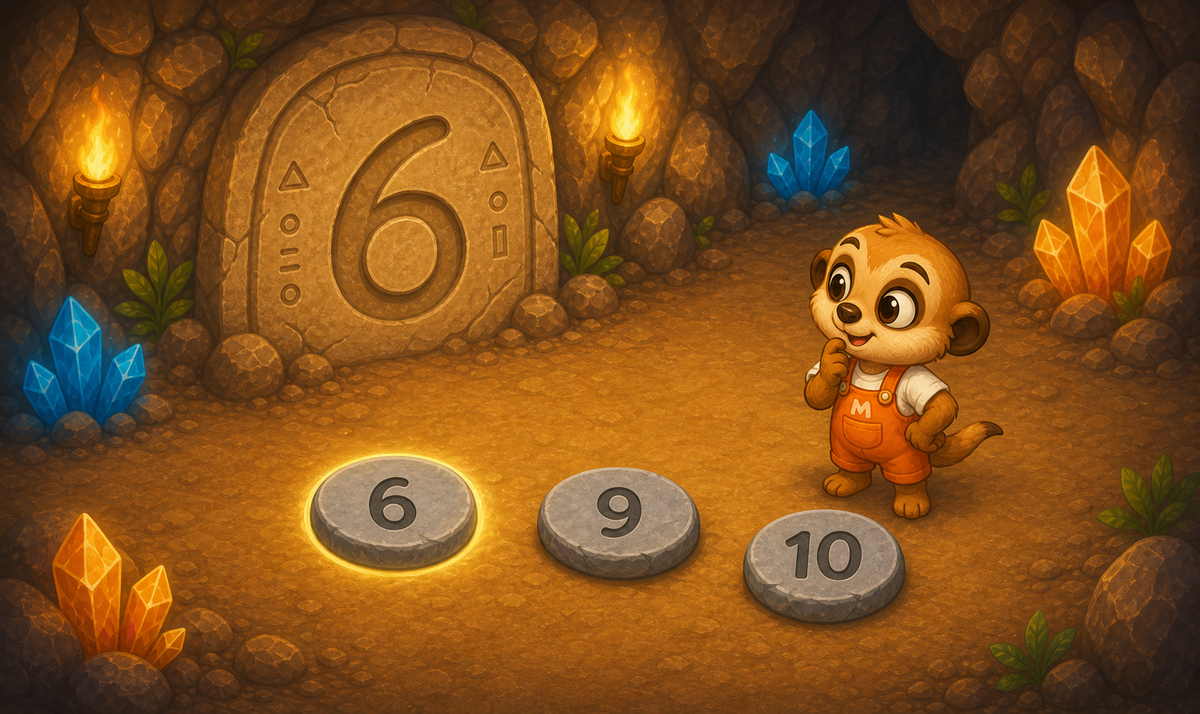
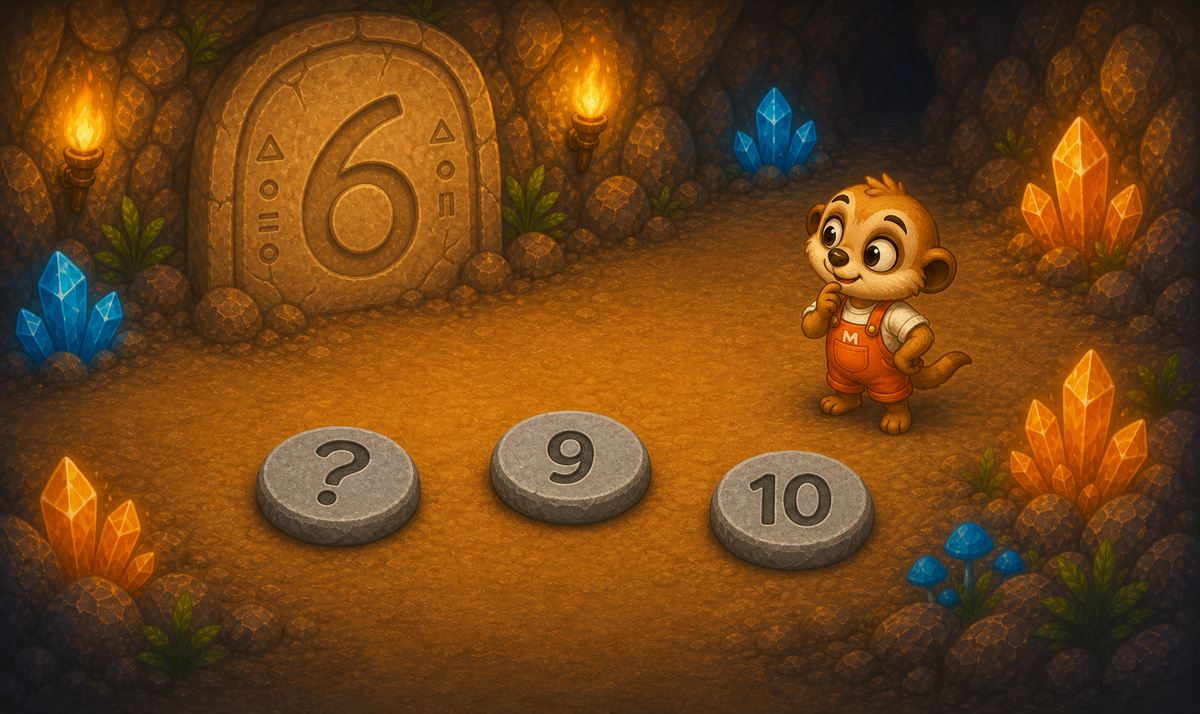
Hide math scene answer hints

diff --git a/src/content/questProblemScenes.ts b/src/content/questProblemScenes.ts
@@ -89,9 +89,9 @@ export const questProblemScenes: Record<string, QuestProblemScene> = {
     item('more', 'count', '새 보석 2개', { count: 2 }),
     item('total', 'count', '모두 8개', { count: 8, role: 'answer' }),
   ]),
-  'math-20': scene('math', '10에서 두 걸음을 더 세어 20에 도착하는 발자국 길', 'sequence', [
-    item('start', 'sequence', '10에서 두 걸음', { values: ['10', '두 걸음', '20'] }),
-    item('goal', 'object', '20번째 발자국', { role: 'answer' }),
+  'math-20': scene('math', '10에서 두 걸음을 더 세는 빈 발자국 길', 'sequence', [
+    item('start', 'sequence', '10에서 두 걸음', { values: ['10', '11', '?'] }),
+    item('goal', 'object', '도착한 수', { role: 'answer' }),
   ]),
 
   'language-6': scene('language', '큰 바위와 작은 조약돌을 보고 작다를 말하는 장면', 'compare', [

diff --git a/src/content/questProblemScenes.test.ts b/src/content/questProblemScenes.test.ts
@@ -32,4 +32,24 @@ describe('quest problem scenes', () => {
       expect(existsSync(resolve(process.cwd(), assetFile))).toBe(true);
     }
   });
+
+  it('keeps the twentieth math scene from exposing the old or correct destination answer', () => {
+    const scene = getQuestProblemScene('math-20', 'math');
+    const visibleSceneText = [
+      scene.summary,
+      ...scene.items.flatMap((sceneItem) => [
+        sceneItem.label,
+        sceneItem.detail ?? '',
+        ...(sceneItem.values ?? []),
+      ]),
+    ].join(' ');
+
+    expect(visibleSceneText).not.toContain('20');
+    expect(visibleSceneText).not.toContain('12');
+    expect(scene.items.find((sceneItem) => sceneItem.id === 'start')?.values).toEqual([
+      '10',
+      '11',
+      '?',
+    ]);
+  });
 });
